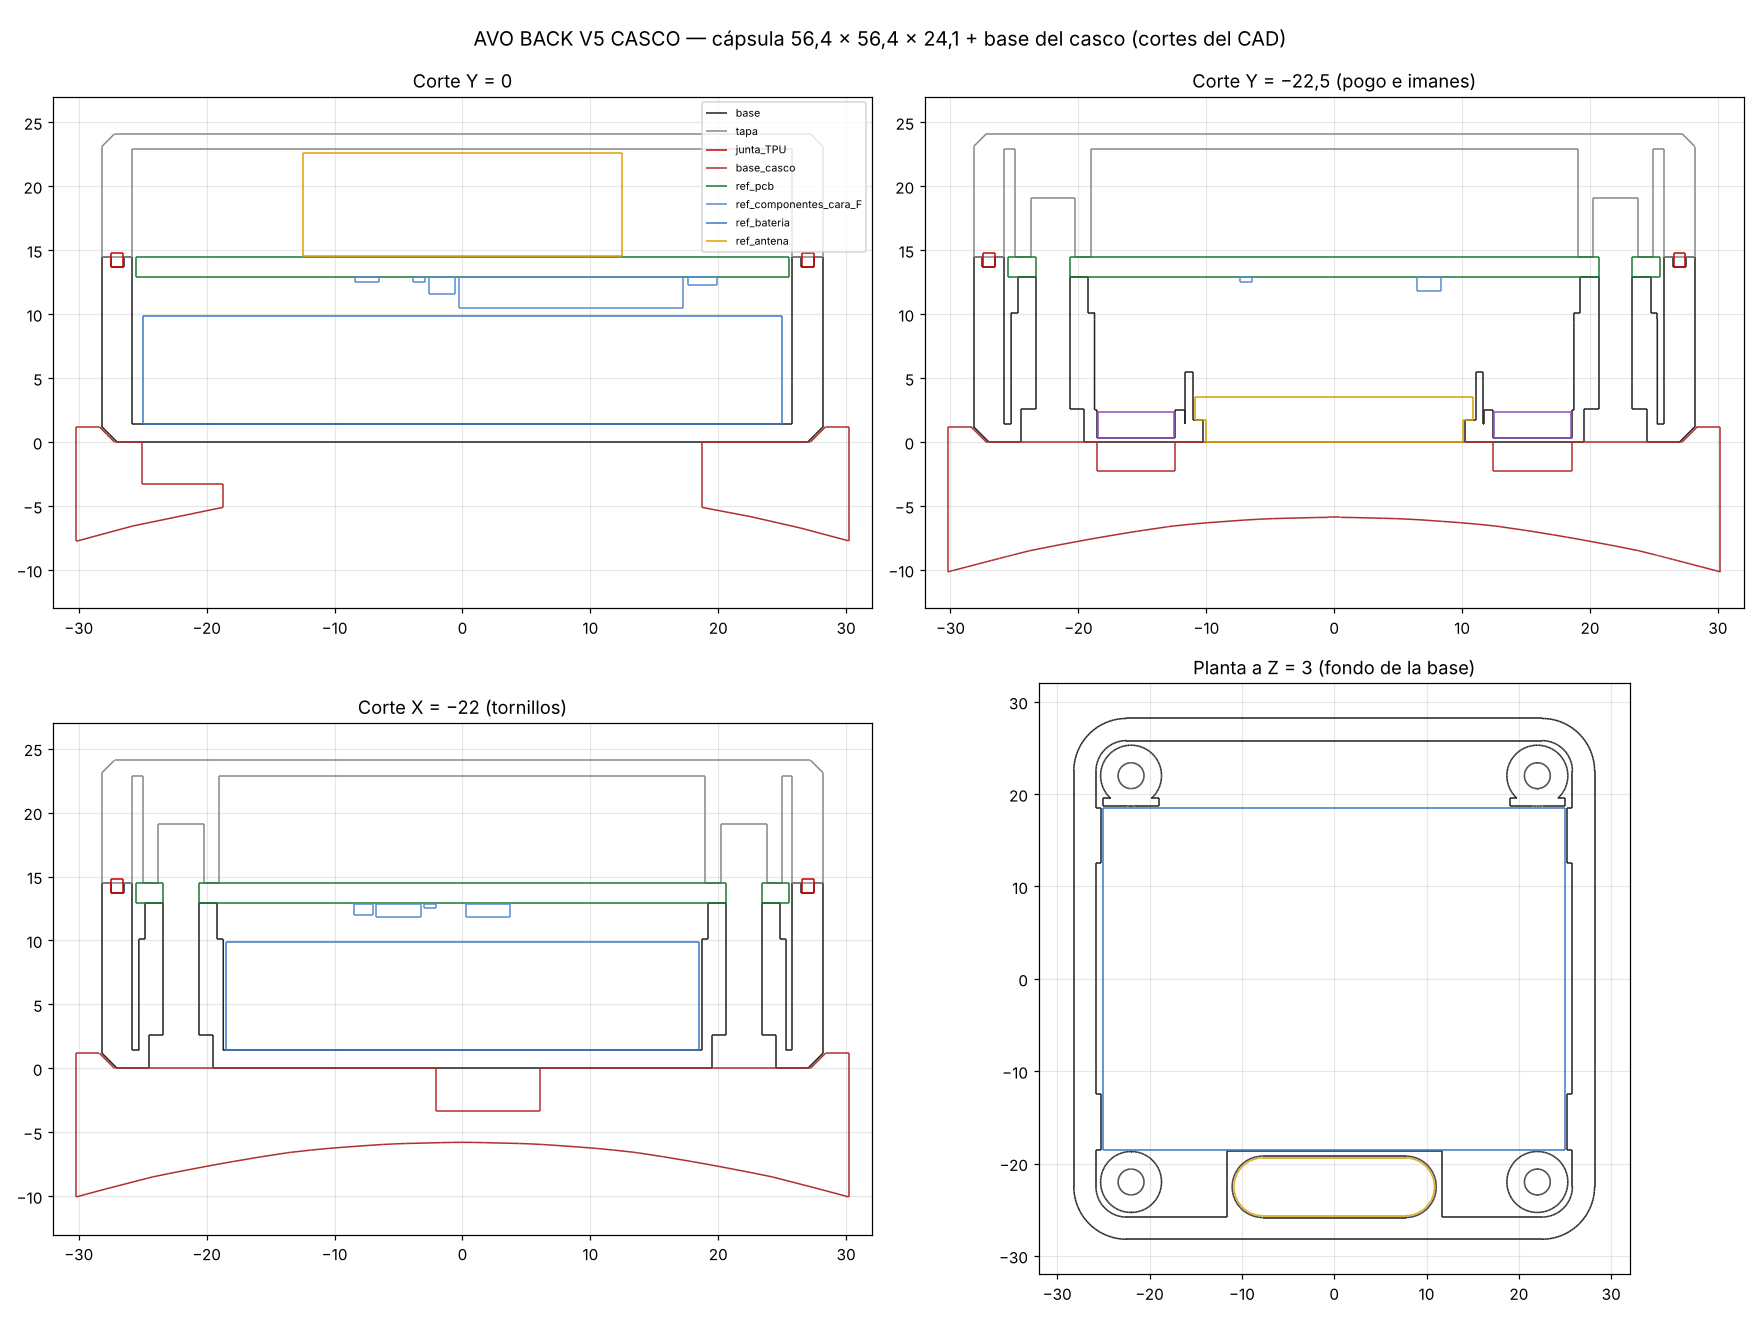
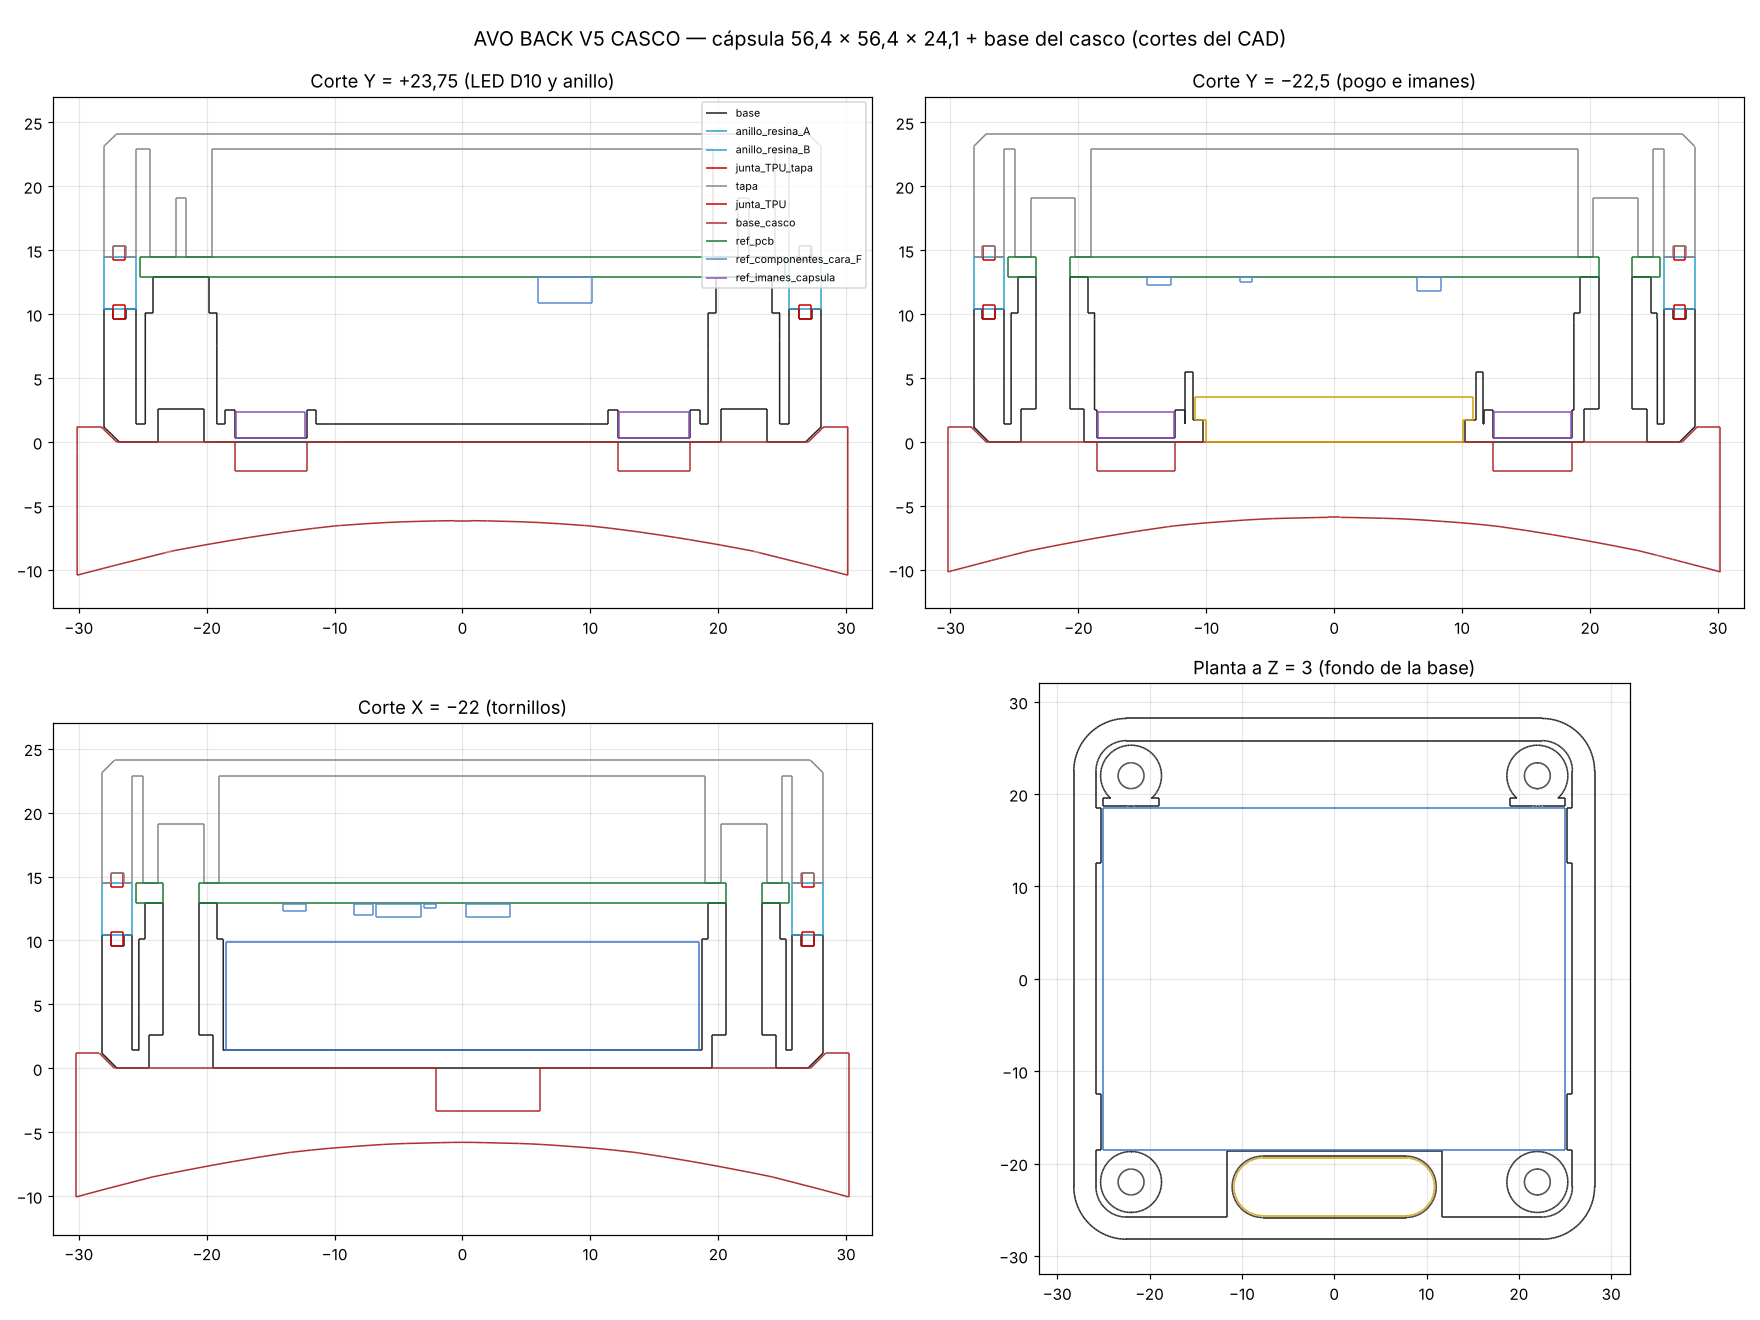
CAD casco V5: cortes con el anillo de luz [skip ci]
Claude-Session: https://claude.ai/code/session_01CFKdRMvEszajTemWxtmJHV

diff --git a/hardware/back/V5_CASCO/CAD/render_cortes.py b/hardware/back/V5_CASCO/CAD/render_cortes.py
@@ -19,7 +19,7 @@ P=[("AVO_CASCO_V5_base","#222"),("AVO_CASCO_V5_anillo_resina_A","#2aa0d0"),("AVO
    ("ref_pcb","#1a7a30"),("ref_componentes_cara_F","#5b8bd0"),("ref_bateria","#3c78c8"),("ref_antena","#e0a100"),("ref_pogo_placa","#d4a000"),("ref_imanes_capsula","#9050c0")]
 M={n:load(O+n+".stl") for n,_ in P}
 fig,axs=plt.subplots(2,2,figsize=(16,12))
-for ax,(a,v,keep,ttl,xl,yl) in zip(axs.flat,[(1,0.0,[0,2],"Corte Y = 0",(-32,32),(-13,27)),(1,-22.5,[0,2],"Corte Y = −22,5 (pogo e imanes)",(-32,32),(-13,27)),
+for ax,(a,v,keep,ttl,xl,yl) in zip(axs.flat,[(1,23.75,[0,2],"Corte Y = +23,75 (LED D10 y anillo)",(-32,32),(-13,27)),(1,-22.5,[0,2],"Corte Y = −22,5 (pogo e imanes)",(-32,32),(-13,27)),
                               (0,-22.0,[1,2],"Corte X = −22 (tornillos)",(-32,32),(-13,27)),(2,3.0,[0,1],"Planta a Z = 3 (fondo de la base)",(-32,32),(-32,32))]):
     for n,c in P:
         s=cut(M[n],a,v,keep)
